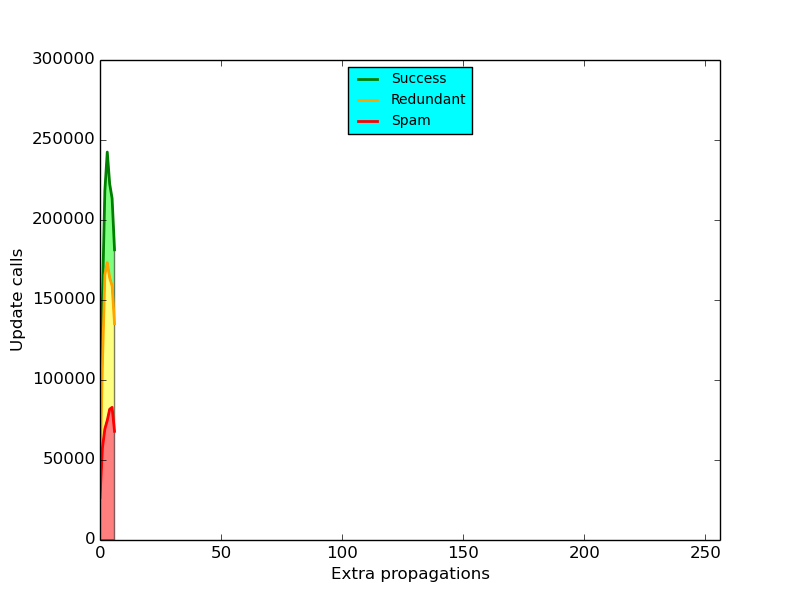
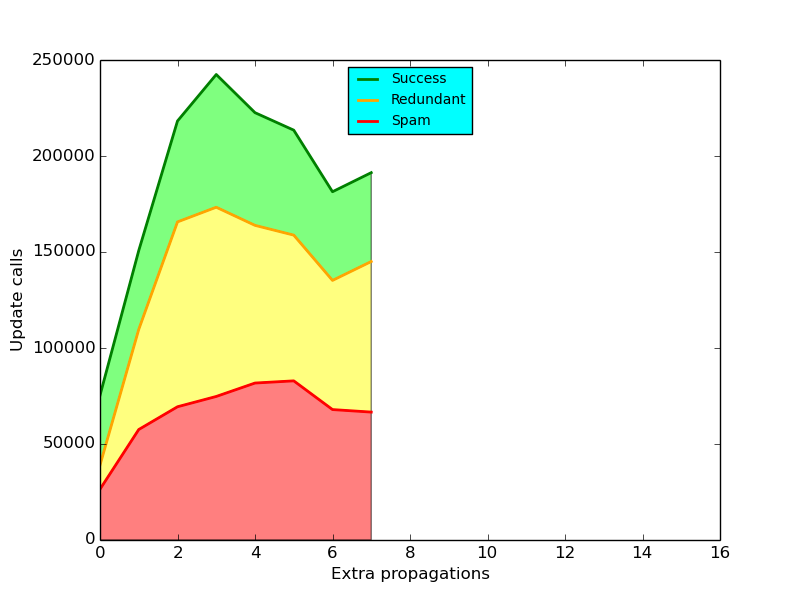
fixed extraprop test again

diff --git a/benchmark/filterupdates_quasar_extraprop_plot.py b/benchmark/filterupdates_quasar_extraprop_plot.py
@@ -18,8 +18,15 @@ samples = [
     json.load(open("benchmark/filterupdates_quasar_extraprop_f.json", "r")),
     json.load(open("benchmark/filterupdates_quasar_extraprop_g.json", "r")),
     json.load(open("benchmark/filterupdates_quasar_extraprop_h.json", "r")),
-    json.load(open("benchmark/filterupdates_quasar_extraprop_i.json", "r")),
-    json.load(open("benchmark/filterupdates_quasar_extraprop_j.json", "r")),
+#   json.load(open("benchmark/filterupdates_quasar_extraprop_i.json", "r")),
+#   json.load(open("benchmark/filterupdates_quasar_extraprop_j.json", "r")),
+#   json.load(open("benchmark/filterupdates_quasar_extraprop_k.json", "r")),
+#   json.load(open("benchmark/filterupdates_quasar_extraprop_l.json", "r")),
+#   json.load(open("benchmark/filterupdates_quasar_extraprop_m.json", "r")),
+#   json.load(open("benchmark/filterupdates_quasar_extraprop_n.json", "r")),
+#   json.load(open("benchmark/filterupdates_quasar_extraprop_o.json", "r")),
+#   json.load(open("benchmark/filterupdates_quasar_extraprop_p.json", "r")),
+#   json.load(open("benchmark/filterupdates_quasar_extraprop_q.json", "r")),
 ]
 
 
@@ -40,7 +47,7 @@ plot.set_xlabel('Extra propagations')
 plot.set_ylabel('Update calls')
 # plot.set_xscale('log')
 # plot.set_yscale('log')
-plot.axis([0, 256, 0, 300000])
+plot.axis([0, 16, 0, 250000])
 
 
 # add plots
